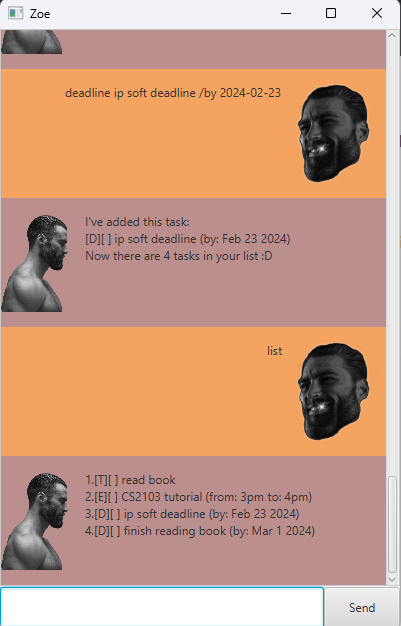
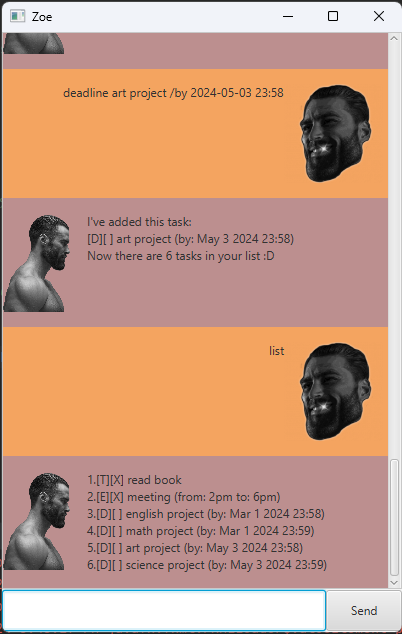
Change deadline to read dates and times instead of just dates
Change Ui picture so that it reflects new functionality as stated above

diff --git a/src/main/java/zoe/Deadline.java b/src/main/java/zoe/Deadline.java
@@ -1,6 +1,6 @@
 package zoe;
 
-import java.time.LocalDate;
+import java.time.LocalDateTime;
 import java.time.format.DateTimeFormatter;
 
 /**
@@ -8,16 +8,19 @@ import java.time.format.DateTimeFormatter;
  * Creates a deadline when keyed in the form: deadline XYZ /by yyyy-mm-dd
  */
 public class Deadline extends Task {
+    private static DateTimeFormatter DATE_TIME_PARSER = DateTimeFormatter.ofPattern("yyyy-MM-dd HH:mm");
+
+    private static DateTimeFormatter FORMATTER = DateTimeFormatter.ofPattern("MMM d yyyy HH:mm");
     private static int DESCRIPTION = 0;
     private static int DATE = 1;
-    protected String date;
+    protected String dateTime;
     protected String formattedDate;
     public Deadline(String desc) {
         String[] str = desc.split("/by");
         this.description = str[DESCRIPTION].trim();
-        this.date = str[DATE].trim();
-        LocalDate inputDate = LocalDate.parse(date);
-        this.formattedDate = inputDate.format(DateTimeFormatter.ofPattern("MMM d yyyy"));
+        this.dateTime = str[DATE].trim();
+        LocalDateTime inputDate = LocalDateTime.parse(dateTime, DATE_TIME_PARSER);
+        this.formattedDate = inputDate.format(FORMATTER);
         this.type = "D";
         this.isDone = false;
         this.priority = TaskPriority.DEADLINE.getPriority();
@@ -26,9 +29,9 @@ public class Deadline extends Task {
     public Deadline(String desc, String isDoneNumber) {
         String[] str = desc.split("/by");
         this.description = str[DESCRIPTION].trim();
-        this.date = str[DATE].trim();
-        LocalDate inputDate = LocalDate.parse(date);
-        this.formattedDate = inputDate.format(DateTimeFormatter.ofPattern("MMM d yyyy"));
+        this.dateTime = str[DATE].trim();
+        LocalDateTime inputDate = LocalDateTime.parse(dateTime, DATE_TIME_PARSER);
+        this.formattedDate = inputDate.format(FORMATTER);
         this.type = "D";
         int doneState = Integer.parseInt(isDoneNumber);
         assert doneState < 2 : "Data file corrupted, invalid state";
@@ -45,13 +48,13 @@ public class Deadline extends Task {
 
     @Override
     public String saveTask() {
-        return String.format("deadline_%s/by %s_%d", description, date, isDoneNumerical());
+        return String.format("deadline_%s/by %s_%d", description, dateTime, isDoneNumerical());
     }
 
     /**
      * Provides date to the comparator to sort deadlines
      */
-    public LocalDate getDate() {
-        return LocalDate.parse(date);
+    public LocalDateTime getDateTime() {
+        return LocalDateTime.parse(dateTime, DATE_TIME_PARSER);
     }
 }

diff --git a/src/main/java/zoe/PriorityComparator.java b/src/main/java/zoe/PriorityComparator.java
@@ -6,7 +6,7 @@ public class PriorityComparator implements Comparator<Task>{
     public int compare(Task firstTask, Task secondTask) {
         if ((firstTask instanceof Deadline) && (secondTask instanceof Deadline)) {
 
-            return ((Deadline) firstTask).getDate().isBefore(((Deadline) secondTask).getDate()) ? -1 : 0;
+            return ((Deadline) firstTask).getDateTime().isBefore(((Deadline) secondTask).getDateTime()) ? -1 : 0;
         }
 
         return firstTask.getPriority() - secondTask.getPriority();

diff --git a/src/main/java/zoe/MainWindow.java b/src/main/java/zoe/MainWindow.java
@@ -39,7 +39,6 @@ public class MainWindow extends AnchorPane {
     /**
      * Creates two dialog boxes, one echoing user input and the other containing Zoe's reply and then appends them to
      * the dialog container. Clears the user input after processing.
-     * Thrown exception is to allow for pausing the bot for 2 seconds so that it can say bye to the user
      */
     @FXML
     private void handleUserInput() {

diff --git a/src/main/java/zoe/Zoe.java b/src/main/java/zoe/Zoe.java
@@ -16,7 +16,6 @@ public class Zoe{
 
     public String getResponse(String input) {
 
-
         if (input.equals("bye")) {
             return ui.saysBye();
         }
